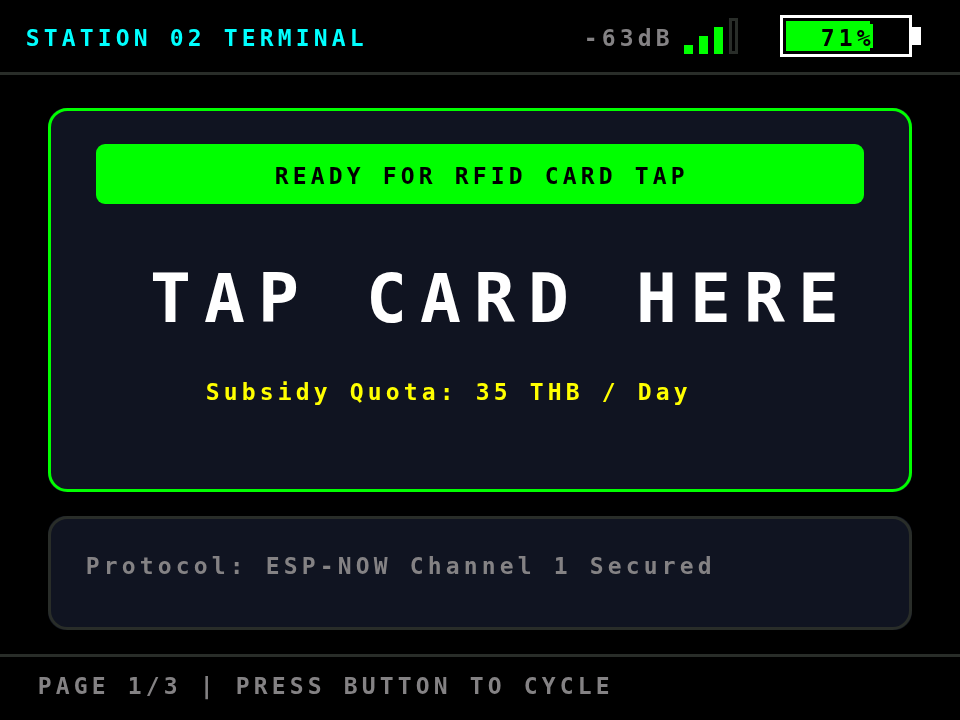
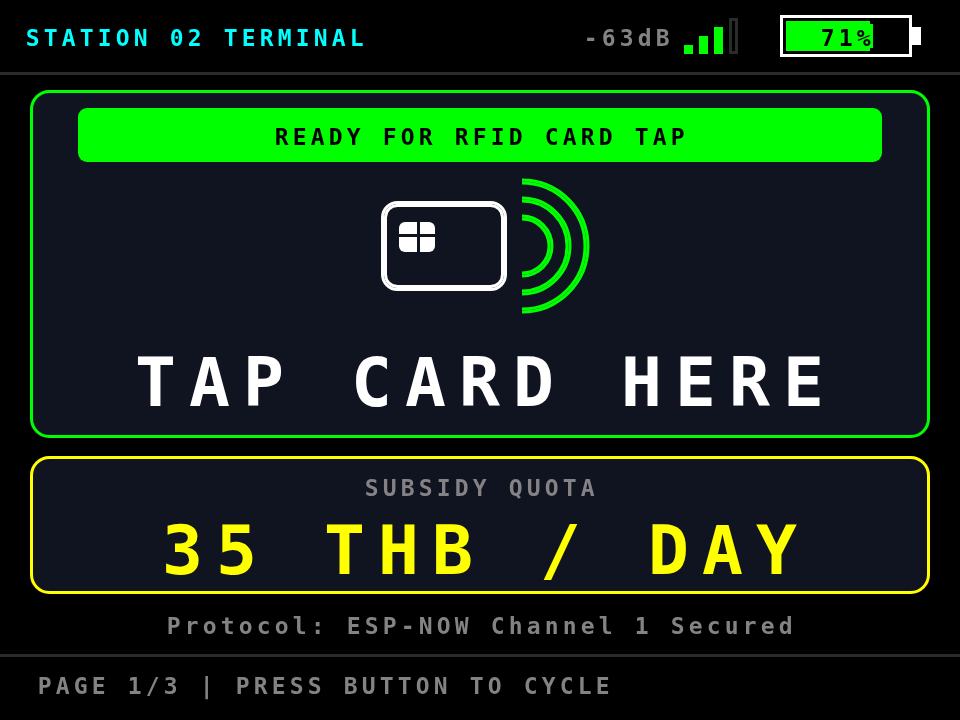
feat(station): เพิ่มสัญลักษณ์ RFID และยกสิทธิ์ 35 บาทให้เด่นขึ้นบนหน้าแรก
- วาดสัญลักษณ์บัตร RFID กลางหน้าจอ เป็นรูปบัตรพร้อมชิปและคลื่น contactless
  สามชั้น ใช้ drawRoundRect, fillRoundRect และ drawCircleHelper ล้วน ๆ
  จึงไม่กินแฟลชเพิ่มเหมือนการฝังบิตแมป และเปลี่ยนสีตามธีมได้
- แยกสิทธิ์ต่อวันออกมาเป็นการ์ดขอบเหลืองของตัวเอง ใช้ตัวอักษรขนาด 3
  จัดกึ่งกลาง จากเดิมเป็นบรรทัดเล็กขนาด 1 ท้ายการ์ดเดียวกับข้อความอื่น
- ข้อความเดิมอยู่ครบทุกบรรทัด

Claude-Session: https://claude.ai/code/session_01X9SBq9sFrEp9tTPMPW8bbn

diff --git a/docs/interface-gallery.html b/docs/interface-gallery.html
@@ -285,7 +285,7 @@ const HOST = [
   ['tft-host-11-stations-light','หน้า 2/3 โหมดสว่าง','ชุดสีโหมดสว่างถูกคาลิเบทแยกจากโหมดมืด'],
 ];
 const STN = [
-  ['tft-stn-01-standby','หน้า 1/3 — รอแตะบัตร','หน้าจอหลักที่ใช้งานตลอดช่วงบริการ มุมขวาบนแสดงสัญญาณและแบตเตอรี่แบบสด'],
+  ['tft-stn-01-standby','หน้า 1/3 — รอแตะบัตร','สัญลักษณ์บัตร RFID พร้อมคลื่น contactless วาดด้วยพรีมิทีฟของ Adafruit GFX ไม่ใช้บิตแมป และยกสิทธิ์ 35 บาทขึ้นมาเป็นการ์ดของตัวเองด้วยตัวอักษรขนาดใหญ่'],
   ['tft-stn-02-stats','หน้า 2/3 — ยอดวันนี้','จำนวนที่จ่ายและยอดเงินของสถานีนี้ ซิงค์จากแม่ข่ายทุกครั้งที่ตอบ heartbeat'],
   ['tft-stn-03-diagnostics','หน้า 3/3 — ตรวจสอบระบบ','เดิมหน้านี้ค่านิ่งและมีช่องว่างเปล่า ตอนนี้อัปเดตทุกครึ่งวินาทีและแสดงครบทุกค่า'],
   ['tft-stn-04-screensaver','โหมดพักหน้าจอ','แตะบัตรหรือกดปุ่มเพื่อปลุกจอ'],

diff --git a/CHANGELOG.md b/CHANGELOG.md
@@ -1,5 +1,18 @@
 # CHANGELOG
 
+## ปรับหน้าแรกของเครื่องประจำร้านค้า
+
+- เพิ่มสัญลักษณ์บัตร RFID กลางหน้าจอ เป็นรูปบัตรพร้อมชิปและคลื่น contactless สามชั้น
+  วาดด้วย `drawRoundRect`, `fillRoundRect` และ `drawCircleHelper` ของ Adafruit GFX ล้วน ๆ
+  จึงไม่กินพื้นที่แฟลชเพิ่มเหมือนการฝังบิตแมป และเปลี่ยนสีตามธีมได้
+- ยกข้อความสิทธิ์ต่อวันออกมาเป็นการ์ดของตัวเองที่มีขอบสีเหลือง จากเดิมเป็นบรรทัดเล็ก
+  ขนาด 1 อยู่ท้ายการ์ดเดียวกับข้อความอื่น ตอนนี้ **35 THB / DAY** ใช้ตัวอักษรขนาด 3
+  จัดกึ่งกลาง อ่านได้จากระยะไกลของเคาน์เตอร์ โดยมีคำว่า SUBSIDY QUOTA กำกับด้านบน
+- ข้อความเดิมอยู่ครบทุกบรรทัด: `READY FOR RFID CARD TAP`, `TAP CARD HERE`
+  และ `Protocol: ESP-NOW Channel 1 Secured` (ย้ายมาอยู่นอกการ์ด จัดกึ่งกลางจอ)
+
+---
+
 ## แก้ปัญหาพอร์ทัลใช้งานไม่ได้ในหน้าต่าง Captive Portal
 
 ตรวจสอบพฤติกรรมตอนโทรศัพท์หรือคอมพิวเตอร์เชื่อมต่อ Wi-Fi ของเครื่องแม่ข่าย
